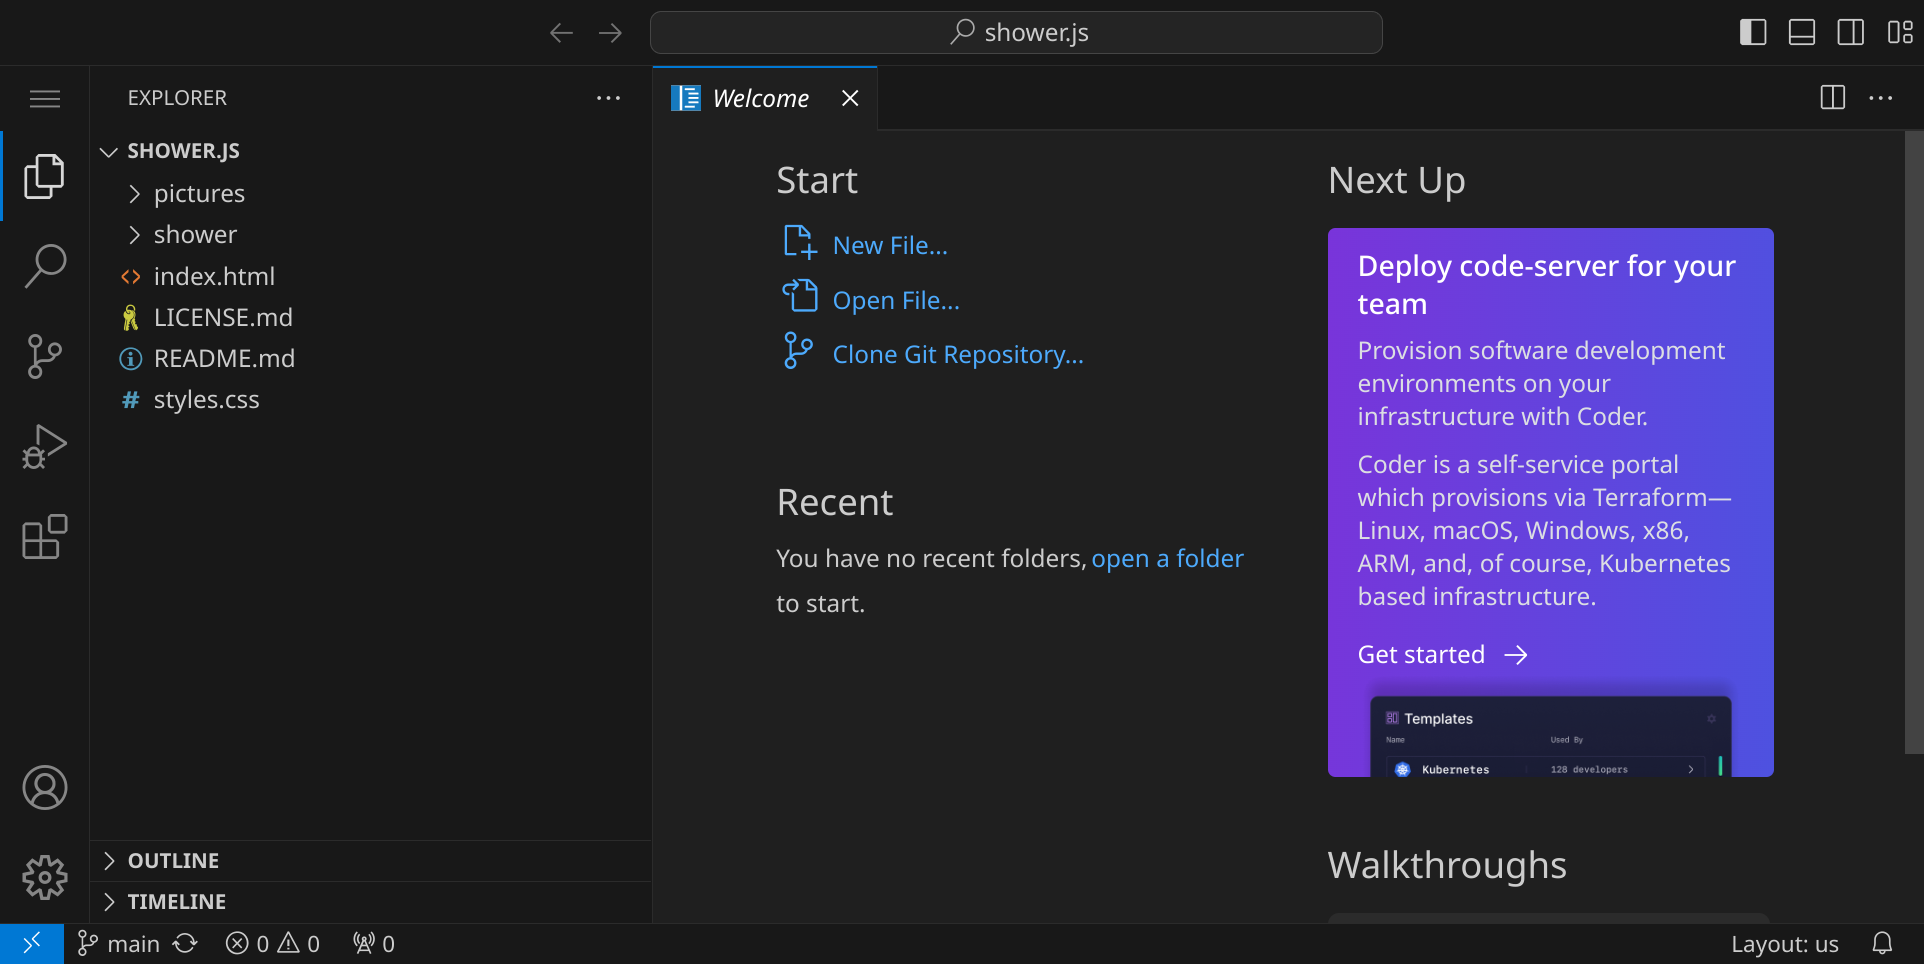
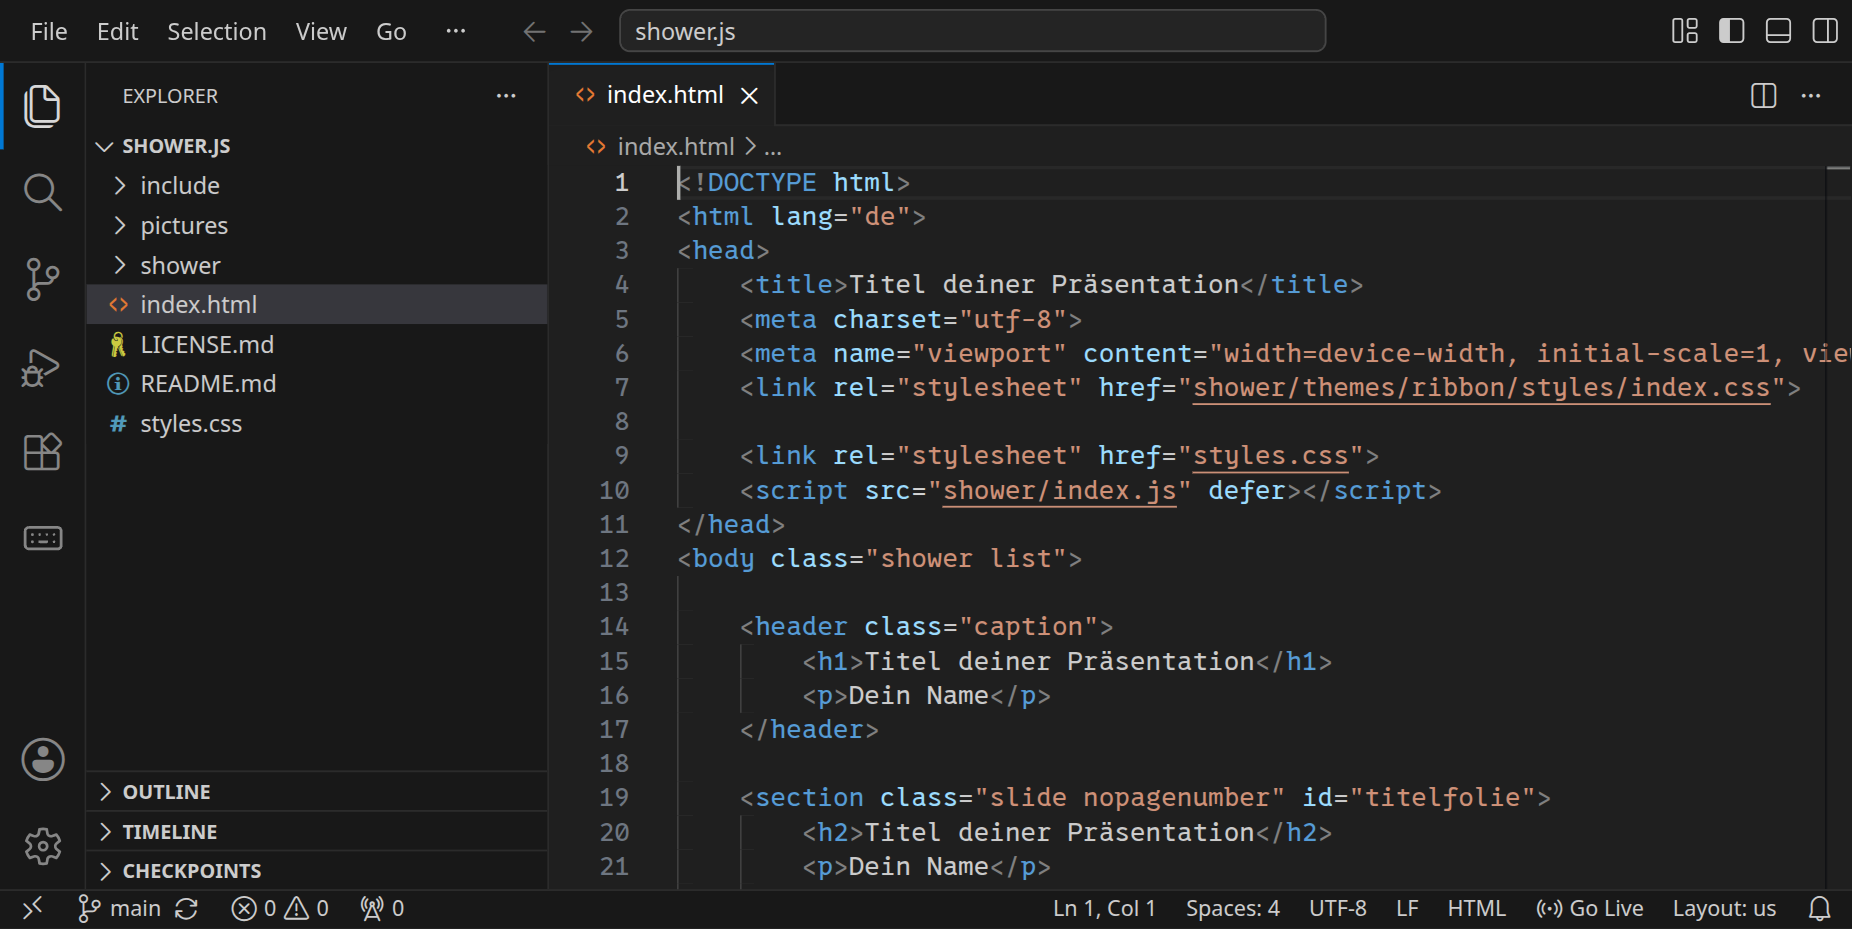
Shower.js: the cloned template and its preview are generated

diff --git a/src/content/showerjs/showerjs.md b/src/content/showerjs/showerjs.md
@@ -37,7 +37,23 @@ _include(workspace#repository-klonen)
 
 Das Repository liegt jetzt in `/workspace/shower.js`. Dein Workspace sollte ungefähr so aussehen:
 
-<img class='full' src='freshly-cloned.webp' alt='Der Explorer zeigt die geklonte Vorlage mit index.html, styles.css und den Ordnern pictures, shower und include.'>
+<!-- tutorial-screenshot
+# Klonen wie im Handbuch »Workspace« (oben eingebunden), dann die geöffnete
+# Vorlage mit index.html
+show-left-sidebar
+clone-start: https://git.nhcham.org/specht/shower.js.git @ 50a071df026545793cfa29853e5e4ed6b1ece36e
+press: Enter
+wait-for-input-value: /workspace/
+press: Enter
+wait-for-text: Would you like to open the repository?
+click: Open
+wait-for-text: index.html
+open-file: index.html
+close-tab: Welcome
+sleep: 1
+-->
+
+<img class='full' src='freshly-cloned.webp' alt='Der Explorer zeigt die geklonte Vorlage mit den Ordnern include, pictures und shower sowie index.html und styles.css; rechts ist index.html geöffnet.'>
 
 Öffne die Datei `index.html`, indem du links darauf klickst.
 
@@ -48,6 +64,12 @@ _task(vorlage)
 _include(workspace#live-server)
 
 Wenn du alles richtig gemacht hast, sollte dein Fenster so aussehen:
+
+<!-- tutorial-screenshot
+# Die Vorlage in der Vorschau: die Übersicht aller Folien
+go-live
+tab: preview
+-->
 
 <img class='full' src='live-preview.webp' alt='Die Vorlage in der Vorschau: eine Übersicht aller Folien, die erste mit einem Titelbild.'>
 
